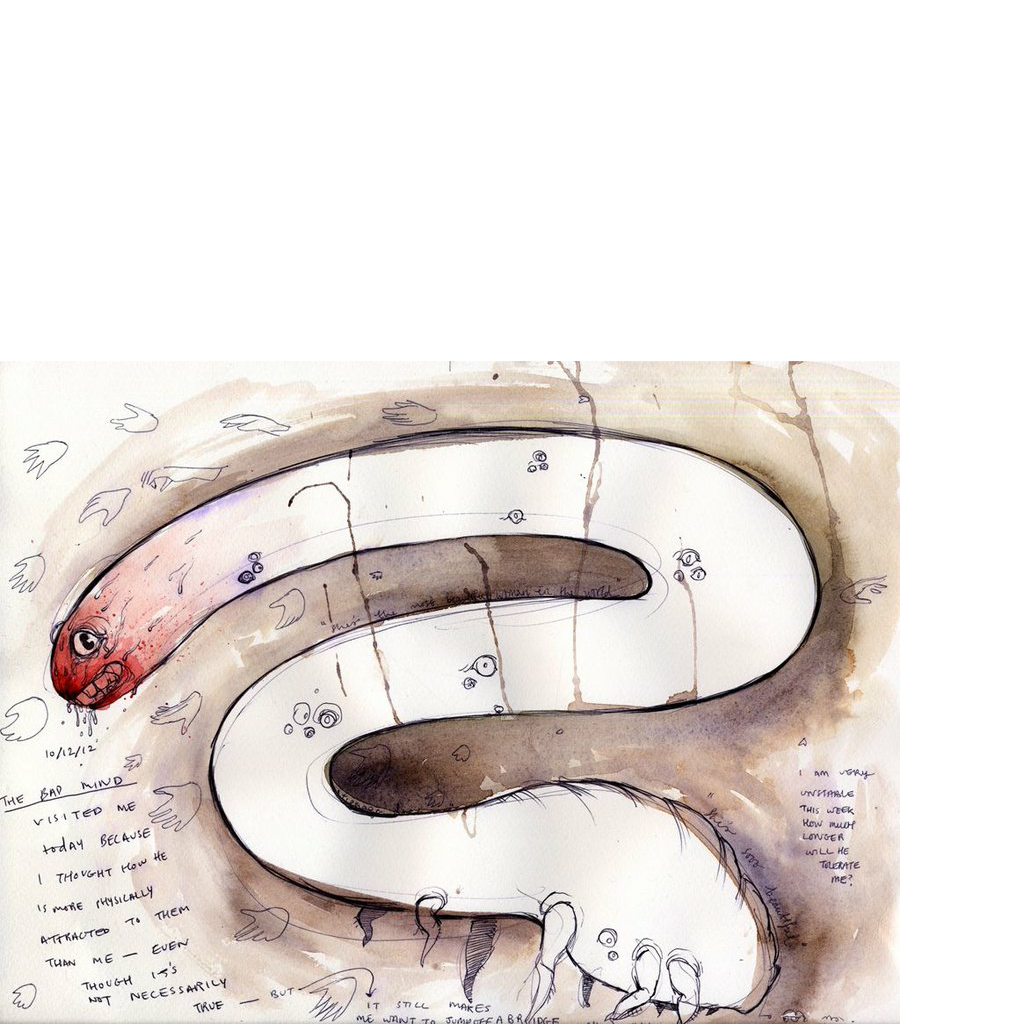
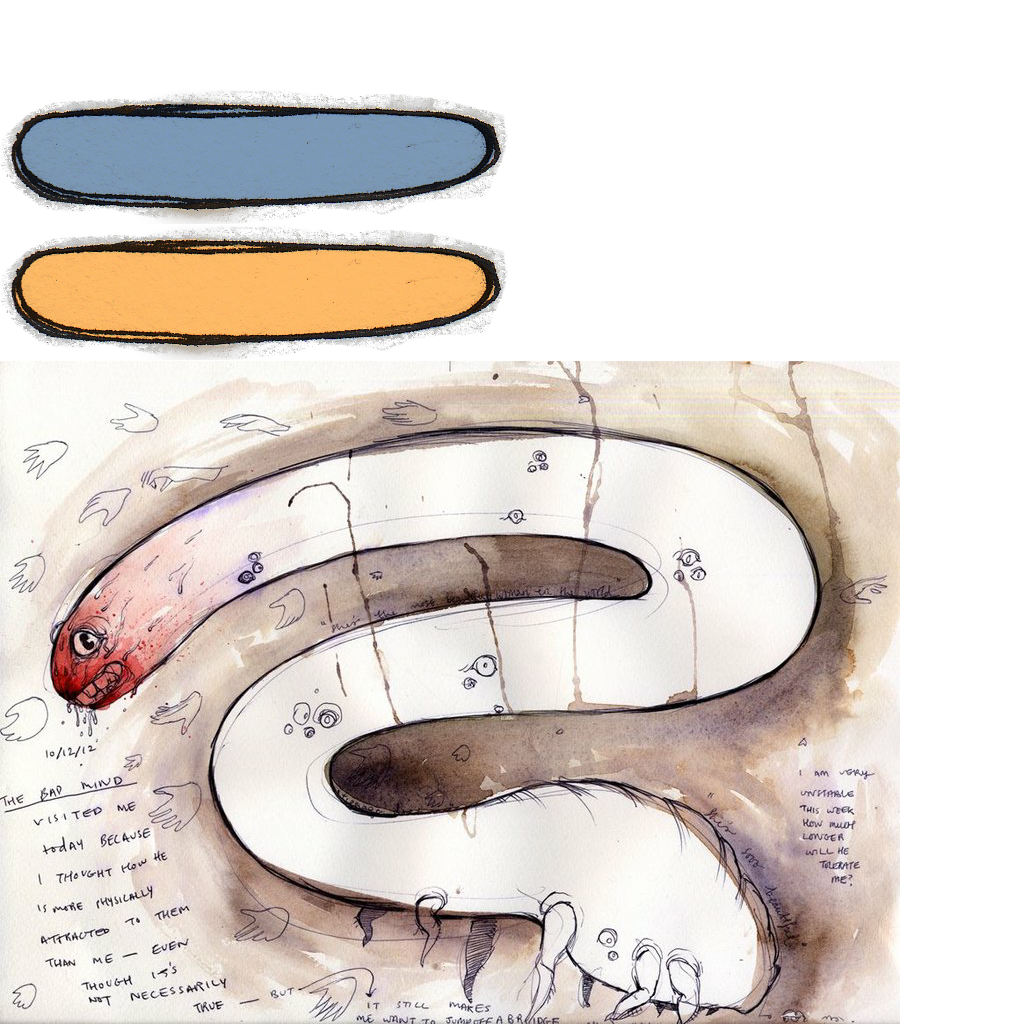
Main scene changes -- Elysia health bar

Changed region(s): [[0.0, 0.0938, 0.5, 0.375]]

diff --git a/IndieSpeedRun/Assets/Scripts/PlayerScripts/PlayerDamage.cs b/IndieSpeedRun/Assets/Scripts/PlayerScripts/PlayerDamage.cs
@@ -1,0 +1,17 @@
+using UnityEngine;
+using System.Collections;
+
+public class PlayerDamage : MonoBehaviour {
+	void OnTriggerEnter( ){
+		Debug.Log( tag );
+		if ( tag == "Enemy" ){
+			Debug.Log( "Enemy Damage" );
+		}
+	}
+	void OnCollisionEnter( ){
+		
+		Debug.Log( "Collide?" );
+		
+	}
+	
+}
